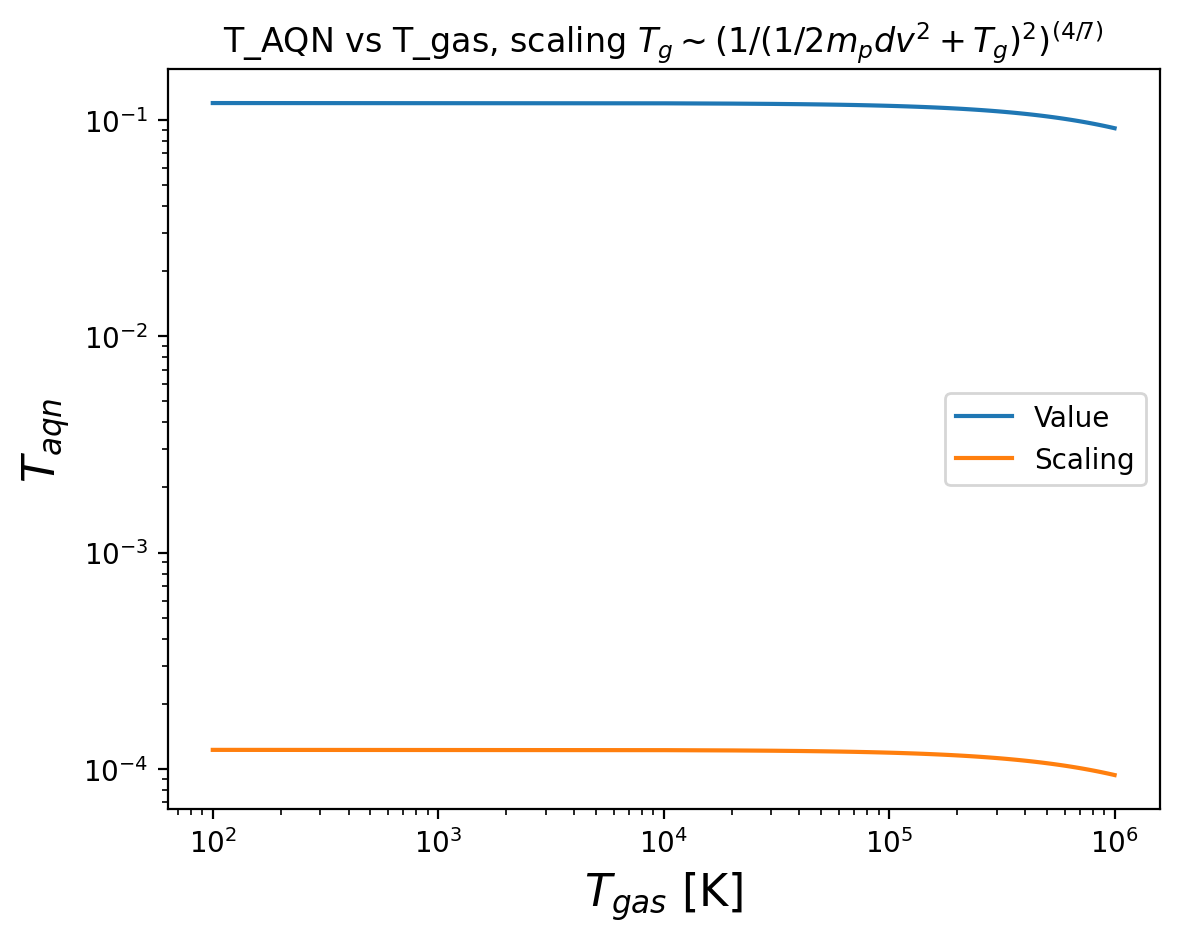
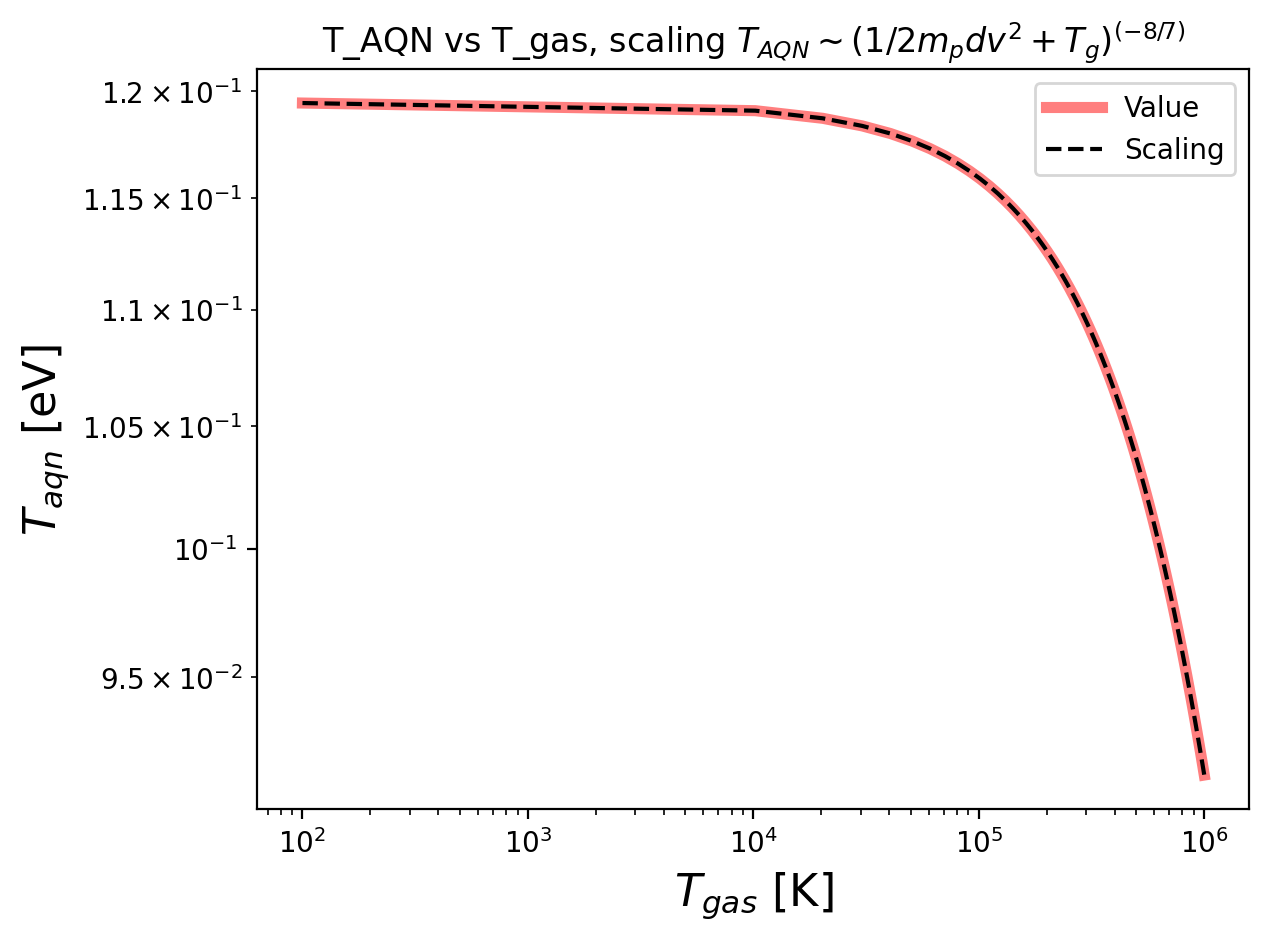
Verified T_AQN relationships

diff --git a/processing/notebook_functions.py b/processing/notebook_functions.py
@@ -568,31 +568,46 @@ def t_aqn_parameter_relations_study(quant_original, m_aqn_kg, frequency_band):
     quant = quant_original.copy()
 
     velocity_array = np.linspace(20, 800, 100) * u.km/u.s
-    T_AQN_array = np.zeros(len(velocity_array)) * u.K
+    T_AQN_array = np.zeros(len(velocity_array)) * u.eV
     for i in range(len(velocity_array)):
         T_AQN_array[i] = T_AQN_ionized2(
-            n_bar = 0.01 * 1/u.cm**3,
+            n_bar = quant["ioni_gas"],
             Dv = velocity_array[i] / cst.c.to(u.km/u.s),
             f = 1,
             g = 0.1,
-            T_p = 10**4 * u.K * K_to_eV,
-            R = calc_R_AQN((16.7 * u.g).to(u.kg))) / K_to_eV
+            T_p = quant["temp_ion"],
+            R = calc_R_AQN(m_aqn_kg))
 
-    fig, ax = plot_parameter_variation(r"$\Delta v$ [km/s]", r"$T_{aqn}$", velocity_array, T_AQN_array)
-    plot_scaling_relation(ax, velocity_array, 4/7, np.max(T_AQN_array))
+    fig, ax = plot_parameter_variation(r"$\Delta v$ [km/s]", r"$T_{aqn}$ [eV]", velocity_array, T_AQN_array)
+    # plot_scaling_relation(ax, velocity_array, 4/7, np.max(T_AQN_array))
+
+    scaling_relation = T_AQN_array[0] * (velocity_array/(velocity_array[0]))**(4/7)
+
+    plt.plot(velocity_array, scaling_relation, "--", color="black", label="Scaling")
+    # plt.scatter(quant_original["dv_ioni"]*cst.c.to(u.km/u.s), compute_epsilon_ionized(quant_original, m_aqn_kg, frequency_band)["t_aqn_i"], s=10)
     ax.set_xscale("log")
     ax.set_yscale("log")
-    plt.title("T_AQN before dv modification, scaling 4/7 w/ dv")
+    plt.title(r"T_AQN before dv modification, scaling $T_{AQN}\sim dv^{(4/7)}$")
     plt.legend()
     plt.savefig(parameter_relations_save_location+"t_aqn_vs_dv_no_dv.png", bbox_inches="tight")
     plt.show()
 
     velocity_array = np.linspace(20, 800, 100) * u.km/u.s
     T_AQN_array = parameter_variation_t_aqn(quant, m_aqn_kg, frequency_band, "dv_ioni", velocity_array)
-    T_AQN_array = T_AQN_array / K_to_eV
-    fig, ax = plot_parameter_variation(r"$\Delta v$ [km/s]", r"$T_{aqn}$", velocity_array, T_AQN_array)
-    ax.plot(velocity_array, np.min(T_AQN_array) * (velocity_array.value * (1/(1+velocity_array.value**2)**2))**(4/7), label="Scaling")
-    plt.title(r"T_AQN after dv modification, scaling $(dv/(1+dv^2)^2)^{(4/7)}$")
+    T_AQN_array = T_AQN_array
+    fig, ax = plot_parameter_variation(r"$\Delta v$ [km/s]", r"$T_{aqn}$ [eV]", velocity_array, T_AQN_array)
+
+    v = velocity_array / cst.c.to(u.km/u.s)
+    m_p_eV = cst.m_p * kg_to_eV
+    v0 = (v[0] * \
+        (1/((quant["temp_ion"] + 1/2 * m_p_eV * (v[0])**2)/K_to_eV)**2))**(4/7)
+    scaling_relation = T_AQN_array[0] * (v * \
+        (1/((quant["temp_ion"]+1/2 * cst.m_p * kg_to_eV * (v)**2)/K_to_eV)**2))**(4/7) / v0
+    plt.plot(velocity_array, scaling_relation, "--", color="black", label="Scaling")
+
+    # plt.scatter(quant_original["dv_ioni"]*cst.c.to(u.km/u.s), compute_epsilon_ionized(quant_original, m_aqn_kg, frequency_band)["t_aqn_i"], s=10)
+    # ax.plot(velocity_array, np.min(T_AQN_array) * (velocity_array.value * (1/(1+velocity_array.value**2)**2))**(4/7), label="Scaling")
+    plt.title(r"T_AQN after dv modification, scaling $T_{AQN}\sim (dv/(T_g+1/2 m_p dv^2)^2)^{(4/7)}$")
     ax.set_xscale("log")
     ax.set_yscale("log")
     plt.legend()
@@ -602,10 +617,15 @@ def t_aqn_parameter_relations_study(quant_original, m_aqn_kg, frequency_band):
     quant = quant_original.copy()
 
     ioni_gas_array = np.linspace(1e-4, 1e-1, 10) * 1/u.cm**3
-    epsilon_array = parameter_variation_t_aqn(quant, m_aqn_kg, frequency_band, "ioni_gas", ioni_gas_array)
+    T_AQN_array = parameter_variation_t_aqn(quant, m_aqn_kg, frequency_band, "ioni_gas", ioni_gas_array)
 
-    fig, ax = plot_parameter_variation(r"$n_{ion}$ [1/cm$^3$]", r"$T_{aqn}$", ioni_gas_array, epsilon_array)
-    plot_scaling_relation(ax, ioni_gas_array, 4/7, np.min(epsilon_array))
+    scaling_relation = T_AQN_array[0] * (ioni_gas_array/ioni_gas_array[0])**(4/7)
+
+    fig, ax = plot_parameter_variation(r"$n_{ion}$ [1/cm$^3$]", r"$T_{aqn}$ [eV]", ioni_gas_array, T_AQN_array)
+    # plot_scaling_relation(ax, ioni_gas_array, 4/7, np.min(T_AQN_array))
+    plt.plot(ioni_gas_array, scaling_relation, "--", color="black", label="Scaling")
+
+    plt.title(r"T_AQN vs n_ion, scaling $T_{AQN}\sim n_{ion}^{(4/7)}$")
     ax.set_xscale("log")
     ax.set_yscale("log")
     plt.legend()
@@ -614,11 +634,18 @@ def t_aqn_parameter_relations_study(quant_original, m_aqn_kg, frequency_band):
 
     quant = quant_original.copy()
 
-    m_aqn_kg_array = np.linspace(1e-4, 1e-1, 10) * u.kg
-    epsilon_array = parameter_variation_t_aqn(quant, m_aqn_kg, frequency_band, "aqn_mass", m_aqn_kg_array, True)
+    
 
-    fig, ax = plot_parameter_variation(r"$m_{aqn}$ [kg]", r"$T_{aqn}$", m_aqn_kg_array, epsilon_array)
-    plot_scaling_relation(ax, m_aqn_kg_array, 8/21, np.min(epsilon_array))
+    m_aqn_kg_array = np.linspace(1e-4, 1e-1, 10) * u.kg
+    T_AQN_array = parameter_variation_t_aqn(quant, m_aqn_kg, frequency_band, "aqn_mass", m_aqn_kg_array, True)
+
+    scaling_relation = T_AQN_array[0] * (m_aqn_kg_array/m_aqn_kg_array[0])**(8/21)
+
+    fig, ax = plot_parameter_variation(r"$m_{aqn}$ [kg]", r"$T_{aqn}$ [eV]", m_aqn_kg_array, T_AQN_array)
+    # plot_scaling_relation(ax, m_aqn_kg_array, 8/21, np.min(T_AQN_array))
+    plt.plot(m_aqn_kg_array, scaling_relation, "--", color="black", label="Scaling")
+
+    plt.title(r"T_AQN vs m_AQN, scaling $T_{AQN}\sim m_{AQN}^{(8/21)}$")
     ax.set_xscale("log")
     ax.set_yscale("log")
     plt.legend()
@@ -637,25 +664,38 @@ def t_aqn_parameter_relations_study(quant_original, m_aqn_kg, frequency_band):
         t_aqn_i_array[i] = res["t_aqn_i"]
         T_gas_eff_array[i] = res["temp_ion_eff"] / K_to_eV
 
-    fig, ax = plot_parameter_variation(r"$T_{gas eff}$ [K]", r"$T_{aqn}$", T_gas_eff_array, t_aqn_i_array)
-    plot_scaling_relation(ax, T_gas_eff_array, -8/7, np.min(t_aqn_i_array))
+
+    scaling_relation = t_aqn_i_array[0] * (T_gas_eff_array/T_gas_eff_array[0])**(-8/7)
+
+
+    fig, ax = plot_parameter_variation(r"$T_{gas eff}$ [K]", r"$T_{aqn}$ [eV]", T_gas_eff_array, t_aqn_i_array)
+    plt.plot(T_gas_eff_array, scaling_relation, "--", color="black", label="Scaling")
+    # plot_scaling_relation(ax, T_gas_eff_array, -8/7, np.min(t_aqn_i_array))
+    plt.title(r"T_AQN vs T_gas_eff, scaling $T_{AQN}\sim T_{g,eff}^{(-8/7)}$")
     ax.set_xscale("log")
     ax.set_yscale("log")
     plt.legend()
     plt.savefig(parameter_relations_save_location+"t_aqn_vs_t_gas_eff.png", bbox_inches="tight")
     plt.show()
 
-    fig, ax = plot_parameter_variation(r"$T_{gas}$ [K]", r"$T_{aqn}$", T_gas_array, t_aqn_i_array)
-    ax.plot(T_gas_array, np.min(t_aqn_i_array) * (1/( 1/2 * cst.m_p.value * kg_to_eV.value * quant["dv_ioni"].value**2 + \
-                                                T_gas_array.value*K_to_eV.value)**2)**(4/7), label="Scaling")
-    plt.title(r"T_AQN vs T_gas, scaling $T_g\sim (1/(1/2m_pdv^2+T_g)^2)^{(4/7)}$")
+
+    T_gas_0 = (1/2*m_p_eV*quant["dv_ioni"]**2 + (T_gas_array[0]*K_to_eV))**(-8/7)
+    scaling_relation = t_aqn_i_array[0] * (1/2*m_p_eV*quant["dv_ioni"]**2 + (T_gas_array*K_to_eV))**(-8/7) / T_gas_0
+
+
+    fig, ax = plot_parameter_variation(r"$T_{gas}$ [K]", r"$T_{aqn}$ [eV]", T_gas_array, t_aqn_i_array)
+    plt.plot(T_gas_array, scaling_relation, "--", color="black", label="Scaling")
+
+    # ax.plot(T_gas_array, np.min(t_aqn_i_array) * (1/( 1/2 * cst.m_p.value * kg_to_eV.value * quant["dv_ioni"].value**2 + \
+    #                                             T_gas_array.value*K_to_eV.value)**2)**(4/7), label="Scaling")
+    plt.title(r"T_AQN vs T_gas, scaling $T_{AQN}\sim (1/2 m_p dv^2+T_g)^{(-8/7)}$")
     ax.set_xscale("log")
     ax.set_yscale("log")
     plt.legend()
     plt.savefig(parameter_relations_save_location+"t_aqn_vs_t_gas.png", bbox_inches="tight")
     plt.show()
 ###############################################################################
-
+#_____________________________________________________________________________#
 
 def parameter_variation(quant, m_aqn_kg, frequency_band, parameter_name, parameter_array, mass_variation = False):
     parameter_array_length = len(parameter_array)
@@ -680,6 +720,7 @@ def parameter_variation_t_aqn(quant, m_aqn_kg, frequency_band, parameter_name, p
     if not mass_variation:
         for i, parameter in enumerate(parameter_array):
             quant[parameter_name] = parameter
+            enforce_units(quant)
             t_aqn_i_array[i] = compute_epsilon_ionized(quant, m_aqn_kg, frequency_band)["t_aqn_i"]
     else:
         for i, parameter in enumerate(parameter_array):
@@ -689,7 +730,7 @@ def parameter_variation_t_aqn(quant, m_aqn_kg, frequency_band, parameter_name, p
 
 def plot_parameter_variation(parameter1_name, parameter2_name, parameter1_array, parameter2_array):
     fig, ax = plt.subplots(dpi=200)
-    ax.plot(parameter1_array, parameter2_array, label="Value")
+    ax.plot(parameter1_array, parameter2_array, label="Value", linewidth=4, color="red", alpha=0.5)
     ax.set_xlabel(parameter1_name, size=16)
     ax.set_ylabel(parameter2_name, size=16)
     

diff --git a/processing/testing-velocity-distribution.py b/processing/testing-velocity-distribution.py
@@ -30,7 +30,7 @@ sigma_v, v_b = 156, 180
 
 # epsilon_parameter_relations_study(quant, m_aqn_kg, frequency_band)
 
-
+# 
 ###############################################################################
 # Testing with Xunyu's values
 
@@ -42,6 +42,7 @@ T_p = 10**4 * u.K
 R = calc_R_AQN((16.7 * u.g).to(u.kg))
 
 print(f"n_bar={n_bar}\nDv={Dv}\nf={f}\ng={g}\nT_p={T_p}\nR={R}")
+print(f"c={cst.c.to(u.km/u.s)}")
 
 print(">>\t",T_AQN_ionized2(
     n_bar = 0.01 * 1/u.cm**3,
@@ -69,6 +70,13 @@ print(">>\t",T_AQN_ionized2(
     g = 0.1,
     T_p = 1.5*10**5 * u.K * K_to_eV,
     R = calc_R_AQN((16.7 * u.g).to(u.kg))))
+
+print("\n\n")
+
+print("Some more constants:")
+print(f"c={cst.c.to(u.km/u.s)}")
+print(f"alpha={cst.alpha}")
+print(f"m_p={m_p_erg}")
 
 ###############################################################################
 
